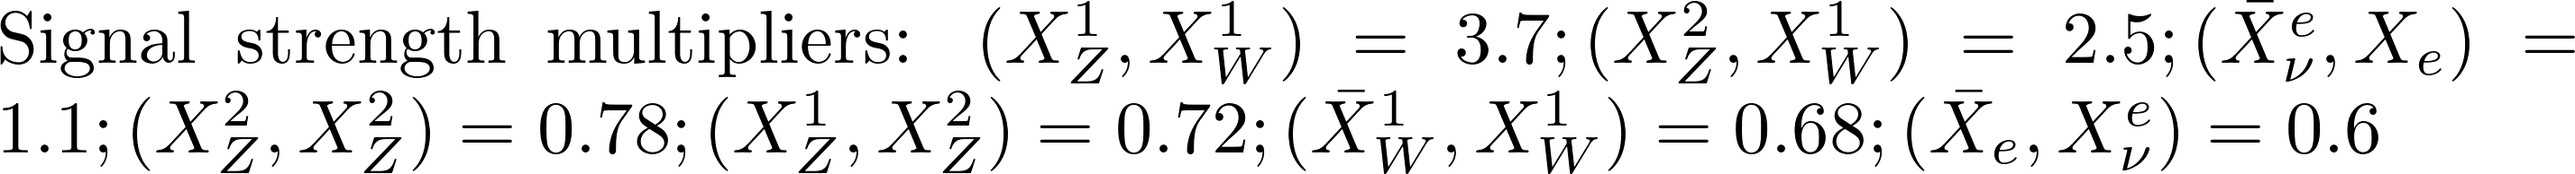
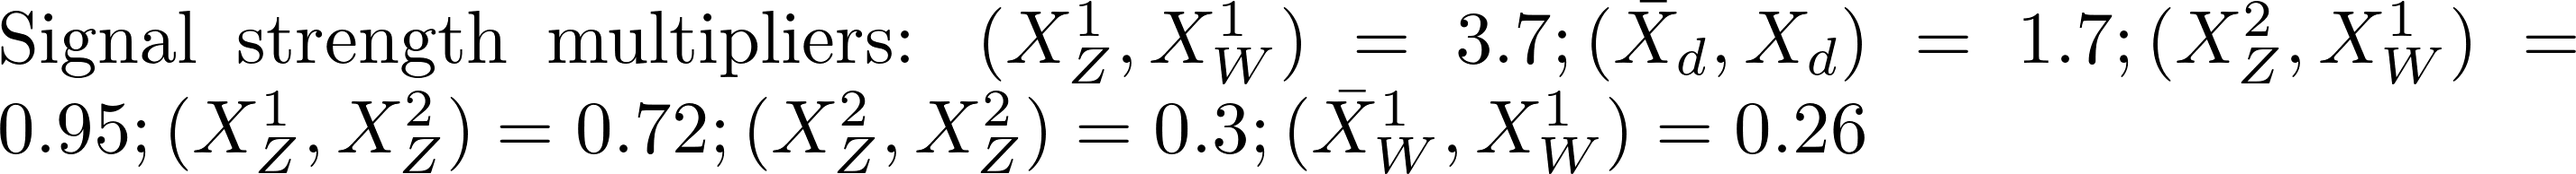
automated update by plotHiscore.py to fake_ewk2_310:     K=60.336 TL=69.36 walkerid=0

diff --git a/protomodels/fake_ewk2_310/rawnumbers.html b/protomodels/fake_ewk2_310/rawnumbers.html
@@ -1,23 +1,54 @@
 <table>
 <tr><th>Analysis Name</th><th>Type</th><th>Dataset</th><th>Topos</th><th>Observed</th><th>Expected</th><th>Approx &sigma;</th><th>Particles</th><th>Signal</th>
 </tr>
-<tr><td><a href=https://atlas.web.cern.ch/Atlas/GROUPS/PHYSICS/PAPERS/SUSY-2019-09/>ATLAS-SUSY-2019-09</a></td><td>comb</td> <td>-</td><td>TChiWH, TChiWZ</td><td> 1 fb </td><td> 0.3 fb</td><td style="text-align:right">5.6 &sigma;</td><td style="text-align:right">X<sup>1</sup><sub>W</sub>, X<sup>1</sup><sub>Z</sub>, X<sup>2</sup><sub>Z</sub></td><td style="text-align:right">-</td></tr>
-<tr><td><a href=http://cms-results.web.cern.ch/cms-results/public-results/publications/SUS-16-039/index.html>CMS-SUS-16-039-agg</a></td><td>comb</td> <td>-</td><td>TChiWZ</td><td> 4 fb </td><td> 2 fb</td><td style="text-align:right">3.3 &sigma;</td><td style="text-align:right">X<sup>1</sup><sub>W</sub>, X<sup>1</sup><sub>Z</sub>, X<sup>2</sup><sub>Z</sub></td><td style="text-align:right">-</td></tr>
+<tr><td><a href=https://atlas.web.cern.ch/Atlas/GROUPS/PHYSICS/PAPERS/SUSY-2019-09/>ATLAS-SUSY-2019-09</a></td><td>comb</td> <td>-</td><td>TChiWH, TChiWZ</td><td> 2 fb </td><td> 0.4 fb</td><td style="text-align:right">6.1 &sigma;</td><td style="text-align:right">X<sup>1</sup><sub>W</sub>, X<sup>1</sup><sub>Z</sub>, X<sup>2</sup><sub>Z</sub></td><td style="text-align:right">-</td></tr>
+<tr><td><a href=https://atlas.web.cern.ch/Atlas/GROUPS/PHYSICS/PAPERS/SUSY-2018-05/>ATLAS-SUSY-2018-05-ewk</a></td><td>comb</td> <td>-</td><td>TChiWZ</td><td> 0.5 fb </td><td> 0.2 fb</td><td style="text-align:right">3.2 &sigma;</td><td style="text-align:right">X<sup>1</sup><sub>W</sub>, X<sup>1</sup><sub>Z</sub>, X<sup>2</sup><sub>Z</sub></td><td style="text-align:right">-</td></tr>
+<tr><td><a href=http://cms-results.web.cern.ch/cms-results/public-results/publications/SUS-16-039/index.html>CMS-SUS-16-039-agg</a></td><td>comb</td> <td>-</td><td>TChiWZ</td><td> 4 fb </td><td> 2 fb</td><td style="text-align:right">3.1 &sigma;</td><td style="text-align:right">X<sup>1</sup><sub>W</sub>, X<sup>1</sup><sub>Z</sub>, X<sup>2</sup><sub>Z</sub></td><td style="text-align:right">-</td></tr>
 <tr><td><a href=https://atlas.web.cern.ch/Atlas/GROUPS/PHYSICS/PAPERS/SUSY-2013-11/>ATLAS-SUSY-2013-11</a></td><td>em</td> <td>WWb-DF</td><td>TChiWW</td><td>33</td><td>18.10 +/- 2.60</td><td style="text-align:right">2.7 &sigma;</td><td style="text-align:right">X<sup>1</sup><sub>W</sub>, X<sup>1</sup><sub>Z</sub></td><td style="text-align:right">7</td></tr>
-<tr><td><a href=https://atlas.web.cern.ch/Atlas/GROUPS/PHYSICS/PAPERS/SUSY-2018-05/>ATLAS-SUSY-2018-05-ewk</a></td><td>comb</td> <td>-</td><td>TChiWZ</td><td> 0.2 fb </td><td> 0.1 fb</td><td style="text-align:right">2.6 &sigma;</td><td style="text-align:right">X<sup>1</sup><sub>W</sub>, X<sup>1</sup><sub>Z</sub>, X<sup>2</sup><sub>Z</sub></td><td style="text-align:right">-</td></tr>
-<tr><td><a href=https://atlas.web.cern.ch/Atlas/GROUPS/PHYSICS/PAPERS/SUSY-2018-32/>ATLAS-SUSY-2018-32</a></td><td>comb</td> <td>-</td><td>TChiWW</td><td> 0.8 fb </td><td> 0.3 fb</td><td style="text-align:right">2.4 &sigma;</td><td style="text-align:right">X<sup>1</sup><sub>W</sub>, X<sup>1</sup><sub>Z</sub></td><td style="text-align:right">-</td></tr>
-<tr><td><a href=https://twiki.cern.ch/twiki/bin/view/CMSPublic/PhysicsResultsSUS13012>CMS-SUS-13-012</a></td><td>em</td> <td>3NJet6_1250HT15 ...</td><td>TChiWW, TChiWZ, TChiZZ</td><td>26</td><td>17.60 +/- 4.10</td><td style="text-align:right">1.4 &sigma;</td><td style="text-align:right">X<sup>1</sup><sub>W</sub>, X<sup>1</sup><sub>Z</sub>, X<sup>2</sup><sub>Z</sub></td><td style="text-align:right">1</td></tr>
-<tr><td><a href=http://cms-results.web.cern.ch/cms-results/public-results/publications/SUS-21-002/>CMS-SUS-21-002</a></td><td>comb</td> <td>-</td><td>TChiWH, TChiWW, TChiWZ</td><td> 1 fb </td><td> 0.8 fb</td><td style="text-align:right">1.3 &sigma;</td><td style="text-align:right">X<sup>1</sup><sub>W</sub>, X<sup>1</sup><sub>Z</sub>, X<sup>2</sup><sub>Z</sub></td><td style="text-align:right">-</td></tr>
+<tr><td><a href=https://atlas.web.cern.ch/Atlas/GROUPS/PHYSICS/PAPERS/SUSY-2016-07/>ATLAS-SUSY-2016-07</a></td><td>em</td> <td>4j_Meff_1800</td><td>T2, T6WW</td><td>70</td><td>49.00 +/- 7.00</td><td style="text-align:right">2.0 &sigma;</td><td style="text-align:right">X<sup>1</sup><sub>W</sub>, X<sub>d</sub>, X<sup>1</sup><sub>Z</sub></td><td style="text-align:right">-</td></tr>
+<tr><td><a href=https://atlas.web.cern.ch/Atlas/GROUPS/PHYSICS/PAPERS/SUSY-2018-32/>ATLAS-SUSY-2018-32</a></td><td>comb</td> <td>-</td><td>TChiWW</td><td> 0.7 fb </td><td> 0.3 fb</td><td style="text-align:right">1.9 &sigma;</td><td style="text-align:right">X<sup>1</sup><sub>W</sub>, X<sup>1</sup><sub>Z</sub></td><td style="text-align:right">-</td></tr>
+<tr><td><a href=https://atlas.web.cern.ch/Atlas/GROUPS/PHYSICS/CONFNOTES/ATLAS-CONF-2013-054/>ATLAS-CONF-2013-054</a></td><td>em</td> <td>8j50 flavor 0 b ...</td><td>T2</td><td>46</td><td>35.00 +/- 4.00</td><td style="text-align:right">1.5 &sigma;</td><td style="text-align:right">X<sub>d</sub>, X<sup>1</sup><sub>Z</sub></td><td style="text-align:right">-</td></tr>
+<tr><td><a href=https://atlas.web.cern.ch/Atlas/GROUPS/PHYSICS/PAPERS/SUSY-2013-12/>ATLAS-SUSY-2013-12</a></td><td>em</td> <td>SR0tau_a_Bin16</td><td>TChiWZ</td><td>9</td><td>4.60 +/- 1.70</td><td style="text-align:right">1.5 &sigma;</td><td style="text-align:right">X<sup>1</sup><sub>W</sub>, X<sup>1</sup><sub>Z</sub>, X<sup>2</sup><sub>Z</sub></td><td style="text-align:right">7</td></tr>
+<tr><td><a href=https://twiki.cern.ch/twiki/bin/view/CMSPublic/PhysicsResultsSUS13012>CMS-SUS-13-012</a></td><td>em</td> <td>3NJet6_1250HT15 ...</td><td>T2, T6WW, TChiWW, TChiZZ</td><td>26</td><td>17.60 +/- 4.10</td><td style="text-align:right">1.4 &sigma;</td><td style="text-align:right">X<sup>1</sup><sub>W</sub>, X<sub>d</sub>, X<sup>1</sup><sub>Z</sub>, X<sup>2</sup><sub>Z</sub></td><td style="text-align:right">1</td></tr>
+<tr><td><a href=https://atlas.web.cern.ch/Atlas/GROUPS/PHYSICS/PAPERS/SUSY-2013-02/>ATLAS-SUSY-2013-02</a></td><td>em</td> <td>SR3j</td><td>T2</td><td>8</td><td>5.00 +/- 1.20</td><td style="text-align:right">1.1 &sigma;</td><td style="text-align:right">X<sub>d</sub>, X<sup>1</sup><sub>Z</sub></td><td style="text-align:right">-</td></tr>
+<tr><td><a href=http://cms-results.web.cern.ch/cms-results/public-results/publications/SUS-21-002/>CMS-SUS-21-002</a></td><td>comb</td> <td>-</td><td>TChiWH, TChiWW, TChiWZ</td><td> 1 fb </td><td> 1 fb</td><td style="text-align:right">1.1 &sigma;</td><td style="text-align:right">X<sup>1</sup><sub>W</sub>, X<sup>1</sup><sub>Z</sub>, X<sup>2</sup><sub>Z</sub></td><td style="text-align:right">-</td></tr>
+<tr><td><a href=https://atlas.web.cern.ch/Atlas/GROUPS/PHYSICS/PAPERS/SUSY-2019-08/>ATLAS-SUSY-2019-08</a></td><td>comb</td> <td>-</td><td>TChiWH</td><td> 0.08 fb </td><td> 0.1 fb</td><td style="text-align:right">-2.3 &sigma;</td><td style="text-align:right">X<sup>1</sup><sub>W</sub>, X<sup>1</sup><sub>Z</sub>, X<sup>2</sup><sub>Z</sub></td><td style="text-align:right">-</td></tr>
 </table>
 <table style='color:grey'>
-<tr><th>Not in Best Combo</th><th>Type</th><th>Dataset</th><th>Topos</th><th>Observed</th><th>Expected</th><th>Approx &sigma;</th><th>Particles</th><tr><td><a href=https://atlas.web.cern.ch/Atlas/GROUPS/PHYSICS/PAPERS/SUSY-2018-06/>ATLAS-SUSY-2018-06</a></td><td>em</td> <td>SR_low</td><td>TChiWZ</td><td>63</td><td>46.00 +/- 5.00</td><td style="text-align:right">1.9 &sigma;</td><td style="text-align:right">X<sup>1</sup><sub>W</sub>, X<sup>1</sup><sub>Z</sub>, X<sup>2</sup><sub>Z</sub></td><td style="text-align:right">25</td></tr>
+<tr><th>Not in Best Combo</th><th>Type</th><th>Dataset</th><th>Topos</th><th>Observed</th><th>Expected</th><th>Approx &sigma;</th><th>Particles</th><tr><td><a href=http://atlas.web.cern.ch/Atlas/GROUPS/PHYSICS/PAPERS/SUSY-2015-06/>ATLAS-SUSY-2015-06</a></td><td>em</td> <td>SR5j</td><td>T2</td><td>23</td><td>13.20 +/- 2.20</td><td style="text-align:right">2.1 &sigma;</td><td style="text-align:right">X<sub>d</sub>, X<sup>1</sup><sub>Z</sub></td><td style="text-align:right">-</td></tr>
+<tr><td><a href=https://atlas.web.cern.ch/Atlas/GROUPS/PHYSICS/PAPERS/SUSY-2018-06/>ATLAS-SUSY-2018-06</a></td><td>em</td> <td>SR_low</td><td>TChiWZ</td><td>63</td><td>46.00 +/- 5.00</td><td style="text-align:right">1.9 &sigma;</td><td style="text-align:right">X<sup>1</sup><sub>W</sub>, X<sup>1</sup><sub>Z</sub>, X<sup>2</sup><sub>Z</sub></td><td style="text-align:right">25</td></tr>
 <tr><td><a href=https://atlas.web.cern.ch/Atlas/GROUPS/PHYSICS/PAPERS/SUSY-2018-06/>ATLAS-SUSY-2018-06</a></td><td>em</td> <td>SR_ISR</td><td>TChiWZ</td><td>33</td><td>23.40 +/- 2.10</td><td style="text-align:right">1.7 &sigma;</td><td style="text-align:right">X<sup>1</sup><sub>W</sub>, X<sup>1</sup><sub>Z</sub>, X<sup>2</sup><sub>Z</sub></td><td style="text-align:right">8</td></tr>
-<tr><td><a href=https://atlas.web.cern.ch/Atlas/GROUPS/PHYSICS/PAPERS/SUSY-2017-03/>ATLAS-SUSY-2017-03</a></td><td>em</td> <td>SR3l_Low</td><td>TChiWZ</td><td>15</td><td>10.00 +/- 2.00</td><td style="text-align:right">1.3 &sigma;</td><td style="text-align:right">X<sup>1</sup><sub>W</sub>, X<sup>1</sup><sub>Z</sub>, X<sup>2</sup><sub>Z</sub></td><td style="text-align:right">7</td></tr>
-<tr><td><a href=https://atlas.web.cern.ch/Atlas/GROUPS/PHYSICS/PAPERS/SUSY-2017-03/>ATLAS-SUSY-2017-03</a></td><td>em</td> <td>SR2l_Low</td><td>TChiWZ</td><td>17</td><td>8.40 +/- 5.80</td><td style="text-align:right">1.2 &sigma;</td><td style="text-align:right">X<sup>1</sup><sub>W</sub>, X<sup>1</sup><sub>Z</sub>, X<sup>2</sup><sub>Z</sub></td><td style="text-align:right">2</td></tr>
-<tr><td><a href=https://atlas.web.cern.ch/Atlas/GROUPS/PHYSICS/PAPERS/SUSY-2017-03/>ATLAS-SUSY-2017-03</a></td><td>em</td> <td>SR3l_ISR</td><td>TChiWZ</td><td>5</td><td>3.90 +/- 1.00</td><td style="text-align:right">0.6 &sigma;</td><td style="text-align:right">X<sup>1</sup><sub>W</sub>, X<sup>1</sup><sub>Z</sub>, X<sup>2</sup><sub>Z</sub></td><td style="text-align:right">0</td></tr>
-<tr><td><a href=https://atlas.web.cern.ch/Atlas/GROUPS/PHYSICS/PAPERS/SUSY-2017-03/>ATLAS-SUSY-2017-03</a></td><td>em</td> <td>SR2l_ISR</td><td>TChiWZ</td><td>2</td><td>2.70 +/- 2.80</td><td style="text-align:right">-0.4 &sigma;</td><td style="text-align:right">X<sup>1</sup><sub>W</sub>, X<sup>1</sup><sub>Z</sub>, X<sup>2</sup><sub>Z</sub></td><td style="text-align:right">1</td></tr>
-<tr><td><a href=https://atlas.web.cern.ch/Atlas/GROUPS/PHYSICS/PAPERS/SUSY-2016-24/>ATLAS-SUSY-2016-24</a></td><td>em</td> <td>WZ-0Ja</td><td>TChiWZ</td><td>19</td><td>21.70 +/- 2.90</td><td style="text-align:right">-0.5 &sigma;</td><td style="text-align:right">X<sup>1</sup><sub>W</sub>, X<sup>1</sup><sub>Z</sub>, X<sup>2</sup><sub>Z</sub></td><td style="text-align:right">3</td></tr>
-<tr><td><a href=https://atlas.web.cern.ch/Atlas/GROUPS/PHYSICS/PAPERS/SUSY-2016-24/>ATLAS-SUSY-2016-24</a></td><td>em</td> <td>WZ-1Jb</td><td>TChiWZ</td><td>0</td><td>1.80 +/- 0.30</td><td style="text-align:right">-1.4 &sigma;</td><td style="text-align:right">X<sup>1</sup><sub>W</sub>, X<sup>1</sup><sub>Z</sub>, X<sup>2</sup><sub>Z</sub></td><td style="text-align:right">0</td></tr>
-<tr><td><a href=http://cms-results.web.cern.ch/cms-results/public-results/publications/SUS-20-004/>CMS-SUS-20-004</a></td><td>comb</td> <td>-</td><td>TChiHH</td><td> 0.1 fb </td><td> 0.2 fb</td><td style="text-align:right">-1.5 &sigma;</td><td style="text-align:right">X<sup>1</sup><sub>Z</sub>, X<sup>2</sup><sub>Z</sub></td><td style="text-align:right">-</td></tr>
-<tr><td><a href=https://atlas.web.cern.ch/Atlas/GROUPS/PHYSICS/PAPERS/SUSY-2016-24/>ATLAS-SUSY-2016-24</a></td><td>em</td> <td>WZ-1Ja</td><td>TChiWZ</td><td>0</td><td>2.20 +/- 0.50</td><td style="text-align:right">-1.5 &sigma;</td><td style="text-align:right">X<sup>1</sup><sub>W</sub>, X<sup>1</sup><sub>Z</sub>, X<sup>2</sup><sub>Z</sub></td><td style="text-align:right">0</td></tr>
+<tr><td><a href=https://atlas.web.cern.ch/Atlas/GROUPS/PHYSICS/PAPERS/SUSY-2018-22/>ATLAS-SUSY-2018-22</a></td><td>em</td> <td>SR2j_2200</td><td>T2</td><td>1056</td><td>980.00 +/- 50.00</td><td style="text-align:right">1.3 &sigma;</td><td style="text-align:right">X<sub>d</sub>, X<sup>1</sup><sub>Z</sub></td><td style="text-align:right">-</td></tr>
+<tr><td><a href=https://atlas.web.cern.ch/Atlas/GROUPS/PHYSICS/PAPERS/SUSY-2018-22/>ATLAS-SUSY-2018-22</a></td><td>em</td> <td>SR2j_1600</td><td>T2</td><td>2333</td><td>2190.00 +/- 130.00</td><td style="text-align:right">1.0 &sigma;</td><td style="text-align:right">X<sub>d</sub>, X<sup>1</sup><sub>Z</sub></td><td style="text-align:right">-</td></tr>
+<tr><td><a href=https://atlas.web.cern.ch/Atlas/GROUPS/PHYSICS/CONFNOTES/ATLAS-CONF-2013-047/>ATLAS-CONF-2013-047</a></td><td>em</td> <td>A Loose</td><td>T2</td><td>5190</td><td>4700.00 +/- 500.00</td><td style="text-align:right">1.0 &sigma;</td><td style="text-align:right">X<sub>d</sub>, X<sup>1</sup><sub>Z</sub></td><td style="text-align:right">-</td></tr>
+<tr><td><a href=https://atlas.web.cern.ch/Atlas/GROUPS/PHYSICS/CONFNOTES/ATLAS-CONF-2013-047/>ATLAS-CONF-2013-047</a></td><td>em</td> <td>A Medium</td><td>T2</td><td>142</td><td>122.00 +/- 18.00</td><td style="text-align:right">0.9 &sigma;</td><td style="text-align:right">X<sub>d</sub>, X<sup>1</sup><sub>Z</sub></td><td style="text-align:right">-</td></tr>
+<tr><td><a href=http://cms-results.web.cern.ch/cms-results/public-results/publications/SUS-16-033/index.html>CMS-SUS-16-033</a></td><td>em</td> <td>SR2_Njet3_Nb0_H ...</td><td>T2</td><td>67</td><td>55.20 +/- 11.50</td><td style="text-align:right">0.9 &sigma;</td><td style="text-align:right">X<sub>d</sub>, X<sup>1</sup><sub>Z</sub></td><td style="text-align:right">-</td></tr>
+<tr><td><a href=http://cms-results.web.cern.ch/cms-results/public-results/publications/SUS-19-006/index.html>CMS-SUS-19-006-agg</a></td><td>comb</td> <td>-</td><td>T2</td><td> 1 fb </td><td> 2 fb</td><td style="text-align:right">0.6 &sigma;</td><td style="text-align:right">X<sub>d</sub>, X<sup>1</sup><sub>Z</sub></td><td style="text-align:right">-</td></tr>
+<tr><td><a href=http://cms-results.web.cern.ch/cms-results/public-results/publications/SUS-16-033/index.html>CMS-SUS-16-033</a></td><td>em</td> <td>SR11_Njet7_Nb1_ ...</td><td>T2</td><td>1020</td><td>969.00 +/- 80.00</td><td style="text-align:right">0.6 &sigma;</td><td style="text-align:right">X<sub>d</sub>, X<sup>1</sup><sub>Z</sub></td><td style="text-align:right">-</td></tr>
+<tr><td><a href=http://cms-results.web.cern.ch/cms-results/public-results/publications/SUS-16-033/index.html>CMS-SUS-16-033</a></td><td>em</td> <td>SR12_Njet5_Nb1_ ...</td><td>T2</td><td>48</td><td>42.20 +/- 9.70</td><td style="text-align:right">0.5 &sigma;</td><td style="text-align:right">X<sub>d</sub>, X<sup>1</sup><sub>Z</sub></td><td style="text-align:right">-</td></tr>
+<tr><td><a href=http://cms-results.web.cern.ch/cms-results/public-results/publications/SUS-16-033/index.html>CMS-SUS-16-033</a></td><td>em</td> <td>SR7_Njet3_Nb1_H ...</td><td>T2</td><td>122</td><td>113.00 +/- 18.00</td><td style="text-align:right">0.4 &sigma;</td><td style="text-align:right">X<sub>d</sub>, X<sup>1</sup><sub>Z</sub></td><td style="text-align:right">-</td></tr>
+<tr><td><a href=http://atlas.web.cern.ch/Atlas/GROUPS/PHYSICS/PAPERS/SUSY-2015-06/>ATLAS-SUSY-2015-06</a></td><td>em</td> <td>SR6jt</td><td>T2</td><td>5</td><td>4.20 +/- 1.20</td><td style="text-align:right">0.4 &sigma;</td><td style="text-align:right">X<sub>d</sub>, X<sup>1</sup><sub>Z</sub></td><td style="text-align:right">-</td></tr>
+<tr><td><a href=http://cms-results.web.cern.ch/cms-results/public-results/publications/SUS-16-033/index.html>CMS-SUS-16-033</a></td><td>em</td> <td>SR8_Njet5_Nb3_H ...</td><td>T2</td><td>23</td><td>19.50 +/- 8.40</td><td style="text-align:right">0.4 &sigma;</td><td style="text-align:right">X<sub>d</sub>, X<sup>1</sup><sub>Z</sub></td><td style="text-align:right">-</td></tr>
+<tr><td><a href=http://cms-results.web.cern.ch/cms-results/public-results/publications/SUS-16-033/index.html>CMS-SUS-16-033</a></td><td>em</td> <td>SR4_Njet5_Nb0_H ...</td><td>T2</td><td>25</td><td>23.00 +/- 6.50</td><td style="text-align:right">0.3 &sigma;</td><td style="text-align:right">X<sub>d</sub>, X<sup>1</sup><sub>Z</sub></td><td style="text-align:right">-</td></tr>
+<tr><td><a href=https://atlas.web.cern.ch/Atlas/GROUPS/PHYSICS/CONFNOTES/ATLAS-CONF-2013-047/>ATLAS-CONF-2013-047</a></td><td>em</td> <td>B Medium</td><td>T2</td><td>33</td><td>33.00 +/- 7.00</td><td style="text-align:right">0.0 &sigma;</td><td style="text-align:right">X<sub>d</sub>, X<sup>1</sup><sub>Z</sub></td><td style="text-align:right">-</td></tr>
+<tr><td><a href=http://cms-results.web.cern.ch/cms-results/public-results/publications/SUS-16-033/index.html>CMS-SUS-16-033</a></td><td>em</td> <td>SR3_Njet5_Nb0_H ...</td><td>T2</td><td>806</td><td>806.00 +/- 57.00</td><td style="text-align:right">0.0 &sigma;</td><td style="text-align:right">X<sub>d</sub>, X<sup>1</sup><sub>Z</sub></td><td style="text-align:right">-</td></tr>
+<tr><td><a href=http://atlas.web.cern.ch/Atlas/GROUPS/PHYSICS/PAPERS/SUSY-2015-06/>ATLAS-SUSY-2015-06</a></td><td>em</td> <td>SR2jl</td><td>T2</td><td>282</td><td>283.00 +/- 24.00</td><td style="text-align:right">-0.0 &sigma;</td><td style="text-align:right">X<sub>d</sub>, X<sup>1</sup><sub>Z</sub></td><td style="text-align:right">-</td></tr>
+<tr><td><a href=https://atlas.web.cern.ch/Atlas/GROUPS/PHYSICS/CONFNOTES/ATLAS-CONF-2013-047/>ATLAS-CONF-2013-047</a></td><td>em</td> <td>B Tight</td><td>T2</td><td>2</td><td>2.40 +/- 1.40</td><td style="text-align:right">-0.1 &sigma;</td><td style="text-align:right">X<sub>d</sub>, X<sup>1</sup><sub>Z</sub></td><td style="text-align:right">-</td></tr>
+<tr><td><a href=http://cms-results.web.cern.ch/cms-results/public-results/publications/SUS-16-033/index.html>CMS-SUS-16-033</a></td><td>em</td> <td>SR9_NJet5_Nb2_H ...</td><td>T2</td><td>4</td><td>4.40 +/- 3.40</td><td style="text-align:right">-0.1 &sigma;</td><td style="text-align:right">X<sub>d</sub>, X<sup>1</sup><sub>Z</sub></td><td style="text-align:right">-</td></tr>
+<tr><td><a href=http://cms-results.web.cern.ch/cms-results/public-results/publications/SUS-20-004/>CMS-SUS-20-004</a></td><td>comb</td> <td>-</td><td>TChiHH</td><td> 0.1 fb </td><td> 0.2 fb</td><td style="text-align:right">-0.3 &sigma;</td><td style="text-align:right">X<sup>1</sup><sub>Z</sub>, X<sup>2</sup><sub>Z</sub></td><td style="text-align:right">-</td></tr>
+<tr><td><a href=https://atlas.web.cern.ch/Atlas/GROUPS/PHYSICS/CONFNOTES/ATLAS-CONF-2013-047/>ATLAS-CONF-2013-047</a></td><td>em</td> <td>C Medium</td><td>T2</td><td>197</td><td>210.00 +/- 40.00</td><td style="text-align:right">-0.3 &sigma;</td><td style="text-align:right">X<sub>d</sub>, X<sup>1</sup><sub>Z</sub></td><td style="text-align:right">-</td></tr>
+<tr><td><a href=https://atlas.web.cern.ch/Atlas/GROUPS/PHYSICS/CONFNOTES/ATLAS-CONF-2013-047/>ATLAS-CONF-2013-047</a></td><td>em</td> <td>C Tight</td><td>T2</td><td>1</td><td>1.60 +/- 1.40</td><td style="text-align:right">-0.3 &sigma;</td><td style="text-align:right">X<sub>d</sub>, X<sup>1</sup><sub>Z</sub></td><td style="text-align:right">-</td></tr>
+<tr><td><a href=http://atlas.web.cern.ch/Atlas/GROUPS/PHYSICS/PAPERS/SUSY-2015-06/>ATLAS-SUSY-2015-06</a></td><td>em</td> <td>SR2jt</td><td>T2</td><td>20</td><td>23.00 +/- 4.00</td><td style="text-align:right">-0.4 &sigma;</td><td style="text-align:right">X<sub>d</sub>, X<sup>1</sup><sub>Z</sub></td><td style="text-align:right">-</td></tr>
+<tr><td><a href=https://atlas.web.cern.ch/Atlas/GROUPS/PHYSICS/PAPERS/SUSY-2018-22/>ATLAS-SUSY-2018-22</a></td><td>em</td> <td>SR2j_2800</td><td>T2</td><td>81</td><td>87.00 +/- 8.00</td><td style="text-align:right">-0.5 &sigma;</td><td style="text-align:right">X<sub>d</sub>, X<sup>1</sup><sub>Z</sub></td><td style="text-align:right">-</td></tr>
+<tr><td><a href=https://atlas.web.cern.ch/Atlas/GROUPS/PHYSICS/CONFNOTES/ATLAS-CONF-2013-047/>ATLAS-CONF-2013-047</a></td><td>em</td> <td>E Loose</td><td>T2</td><td>100</td><td>113.00 +/- 21.00</td><td style="text-align:right">-0.5 &sigma;</td><td style="text-align:right">X<sub>d</sub>, X<sup>1</sup><sub>Z</sub></td><td style="text-align:right">-</td></tr>
+<tr><td><a href=http://atlas.web.cern.ch/Atlas/GROUPS/PHYSICS/PAPERS/SUSY-2015-06/>ATLAS-SUSY-2015-06</a></td><td>em</td> <td>SR2jm</td><td>T2</td><td>177</td><td>191.00 +/- 21.00</td><td style="text-align:right">-0.5 &sigma;</td><td style="text-align:right">X<sub>d</sub>, X<sup>1</sup><sub>Z</sub></td><td style="text-align:right">-</td></tr>
+<tr><td><a href=http://cms-results.web.cern.ch/cms-results/public-results/publications/SUS-16-033/index.html>CMS-SUS-16-033</a></td><td>em</td> <td>SR10_Njet9_Nb3_ ...</td><td>T2</td><td>0</td><td>0.00 +/- 1.30</td><td style="text-align:right">-0.8 &sigma;</td><td style="text-align:right">X<sub>d</sub>, X<sup>1</sup><sub>Z</sub></td><td style="text-align:right">-</td></tr>
+<tr><td><a href=http://cms-results.web.cern.ch/cms-results/public-results/publications/SUS-16-033/index.html>CMS-SUS-16-033</a></td><td>em</td> <td>SR5_Njet9_Nb0_H ...</td><td>T2</td><td>0</td><td>0.60 +/- 1.30</td><td style="text-align:right">-0.9 &sigma;</td><td style="text-align:right">X<sub>d</sub>, X<sup>1</sup><sub>Z</sub></td><td style="text-align:right">-</td></tr>
+<tr><td><a href=http://atlas.web.cern.ch/Atlas/GROUPS/PHYSICS/PAPERS/SUSY-2015-06/>ATLAS-SUSY-2015-06</a></td><td>em</td> <td>SR4jt</td><td>T2</td><td>2</td><td>4.10 +/- 1.10</td><td style="text-align:right">-0.9 &sigma;</td><td style="text-align:right">X<sub>d</sub>, X<sup>1</sup><sub>Z</sub></td><td style="text-align:right">-</td></tr>
+<tr><td><a href=https://atlas.web.cern.ch/Atlas/GROUPS/PHYSICS/CONFNOTES/ATLAS-CONF-2013-047/>ATLAS-CONF-2013-047</a></td><td>em</td> <td>D</td><td>T2</td><td>8</td><td>15.00 +/- 5.00</td><td style="text-align:right">-1.1 &sigma;</td><td style="text-align:right">X<sub>d</sub>, X<sup>1</sup><sub>Z</sub></td><td style="text-align:right">-</td></tr>
+<tr><td><a href=http://cms-results.web.cern.ch/cms-results/public-results/publications/SUS-16-033/index.html>CMS-SUS-16-033</a></td><td>em</td> <td>SR1_Njet2_Nb0_H ...</td><td>T2</td><td>7063</td><td>7584.00 +/- 433.00</td><td style="text-align:right">-1.2 &sigma;</td><td style="text-align:right">X<sub>d</sub>, X<sup>1</sup><sub>Z</sub></td><td style="text-align:right">-</td></tr>
+<tr><td><a href=http://atlas.web.cern.ch/Atlas/GROUPS/PHYSICS/PAPERS/SUSY-2015-06/>ATLAS-SUSY-2015-06</a></td><td>em</td> <td>SR6jm</td><td>T2</td><td>3</td><td>6.90 +/- 1.50</td><td style="text-align:right">-1.3 &sigma;</td><td style="text-align:right">X<sub>d</sub>, X<sup>1</sup><sub>Z</sub></td><td style="text-align:right">-</td></tr>
+<tr><td><a href=https://atlas.web.cern.ch/Atlas/GROUPS/PHYSICS/CONFNOTES/ATLAS-CONF-2013-047/>ATLAS-CONF-2013-047</a></td><td>em</td> <td>E Tight</td><td>T2</td><td>0</td><td>2.90 +/- 1.80</td><td style="text-align:right">-1.5 &sigma;</td><td style="text-align:right">X<sub>d</sub>, X<sup>1</sup><sub>Z</sub></td><td style="text-align:right">-</td></tr>
+<tr><td><a href=http://cms-results.web.cern.ch/cms-results/public-results/publications/SUS-16-033/index.html>CMS-SUS-16-033</a></td><td>em</td> <td>SR6_Njet2_Nb2_H ...</td><td>T2</td><td>142</td><td>196.00 +/- 28.00</td><td style="text-align:right">-1.8 &sigma;</td><td style="text-align:right">X<sub>d</sub>, X<sup>1</sup><sub>Z</sub></td><td style="text-align:right">-</td></tr>
+<tr><td><a href=https://atlas.web.cern.ch/Atlas/GROUPS/PHYSICS/CONFNOTES/ATLAS-CONF-2013-047/>ATLAS-CONF-2013-047</a></td><td>em</td> <td>E Medium</td><td>T2</td><td>7</td><td>30.00 +/- 8.00</td><td style="text-align:right">-2.6 &sigma;</td><td style="text-align:right">X<sub>d</sub>, X<sup>1</sup><sub>Z</sub></td><td style="text-align:right">-</td></tr>
 </table>

diff --git a/protomodels/fake_ewk2_310/index.html b/protomodels/fake_ewk2_310/index.html
@@ -1,24 +1,24 @@
 <html>
 <body>
 <center>
-<table><td><h1>Current best protomodel: <i>K</i>=54.39, <i>TL</i>=63.64</h1><td><img height=60px src=https://smodels.github.io//protomodels/logos/protomodel_lego.png></table>
+<table><td><h1>Current best protomodel: <i>K</i>=60.34, <i>TL</i>=69.36</h1><td><img height=60px src=https://smodels.github.io//protomodels/logos/protomodel_lego.png></table>
 </center>
-<b><a href=./hiscore.slha>ProtoModel</a> <a href=./pmodel.dict>(dict)</a> produced with <a href=https://smodels.github.io//docs/Validation310fastsignal>database v3.1.0.fastsignal</a>, combination strategy <a href=./matrix.png>aggressive</a> in walker 0 step 123.</b> <br>
+<b><a href=./hiscore.slha>ProtoModel</a> <a href=./pmodel.dict>(dict)</a> produced with <a href=https://smodels.github.io//docs/Validation310fastsignal>database v3.1.0.fastsignal</a>, combination strategy <a href=./matrix.png>aggressive</a> in walker 0 step 249.</b> <br>
 <table width=80%>
 <tr><td>
 <br><b>Critics:</b> passed both critics<br>
-<br><b>LLHD Critic:</b> ATLAS-SUSY-2019-09:bkg_onshell_simplified, ATLAS-SUSY-2018-32:bkgonly_simplified, ATLAS-SUSY-2018-05-ewk:simplified, CMS-SUS-16-039-agg:combined, CMS-SUS-21-002:combined, ATLAS-SUSY-2013-11:WWc-DF:: <span style='color: darkgreen;'>robs=0.83, rexp=4.68</span><br>
-<br><b>21 predictions available. Highest r values are:</b><br><ul>
-<li><a href=https://atlas.web.cern.ch/Atlas/GROUPS/PHYSICS/PAPERS/SUSY-2018-23/>ATLAS-SUSY-2018-23</a>:ul:TChiWH r=2.48, r<sub>exp</sub>=0.95<br>
-<li><a href=https://atlas.web.cern.ch/Atlas/GROUPS/PHYSICS/PAPERS/SUSY-2019-09/>ATLAS-SUSY-2019-09</a>:ul:TChiWZ r=1.21, r<sub>exp</sub>=4.60<br>
-<li><a href=https://atlas.web.cern.ch/Atlas/GROUPS/PHYSICS/PAPERS/SUSY-2019-08/>ATLAS-SUSY-2019-08</a>:ul:TChiWH r=1.18, r<sub>exp</sub>=N/A<br>
-<li><a href=http://cms-results.web.cern.ch/cms-results/public-results/preliminary-results/SUS-17-004/index.html>CMS-PAS-SUS-17-004</a>:ul:TChiWZ r=1.08, r<sub>exp</sub>=N/A<br>
+<br><b>LLHD Critic:</b> ATLAS-SUSY-2019-09:bkg_onshell_simplified, ATLAS-SUSY-2016-07:5j_Meff_1600, ATLAS-SUSY-2018-05-ewk:simplified, CMS-SUS-16-039-agg:combined, ATLAS-SUSY-2019-08:BkgOnly, ATLAS-SUSY-2018-32:bkgonly_simplified, ATLAS-SUSY-2013-12:SR0tau_a_Bin16, CMS-SUS-21-002:combined, CMS-SUS-13-012:3NJet6_1500HTinf_300MHTinf, ATLAS-SUSY-2013-11:WWc-DF:: <span style='color: darkgreen;'>robs=0.94, rexp=5.1</span><br>
+<br><b>46 predictions available. Highest r values are:</b><br><ul>
+<li><a href=https://atlas.web.cern.ch/Atlas/GROUPS/PHYSICS/PAPERS/SUSY-2018-23/>ATLAS-SUSY-2018-23</a>:ul:TChiWH r=1.65, r<sub>exp</sub>=0.63<br>
+<li><a href=https://atlas.web.cern.ch/Atlas/GROUPS/PHYSICS/PAPERS/SUSY-2019-08/>ATLAS-SUSY-2019-08</a>:ul:TChiWH r=0.80, r<sub>exp</sub>=N/A<br>
+<li><a href=https://atlas.web.cern.ch/Atlas/GROUPS/PHYSICS/PAPERS/SUSY-2019-09/>ATLAS-SUSY-2019-09</a>:ul:TChiWZ r=0.56, r<sub>exp</sub>=2.80<br>
+<li><a href=http://cms-results.web.cern.ch/cms-results/public-results/preliminary-results/SUS-17-004/index.html>CMS-PAS-SUS-17-004</a>:ul:TChiWZ r=0.53, r<sub>exp</sub>=N/A<br>
 </ul>
-<td><img width=600px src=./texdoc.png?1757180375>
-<br><span style='font-size: smaller; color: darkred;'>Last updated: Sat Sep  6 19:39:35 2025</span>
+<td><img width=600px src=./texdoc.png?1757274155>
+<br><span style='font-size: smaller; color: darkred;'>Last updated: Sun Sep  7 21:42:35 2025</span>
 </table><table style="width:80%">
-<td width=45%><img height=580px src=./ruler.png?1757180375><td width=55%><img height=220px src=./decays.png?1757180375>
-<font size=-3><iframe type="text/html" height="350px" width="100%" frameborder="0" src="./rawnumbers.html?1757180375"></iframe></font>
+<td width=45%><img height=580px src=./ruler.png?1757274155><td width=55%><img height=220px src=./decays.png?1757274155>
+<font size=-3><iframe type="text/html" height="350px" width="100%" frameborder="0" src="./rawnumbers.html?1757274155"></iframe></font>
 </table>
 </body>
 </html>
